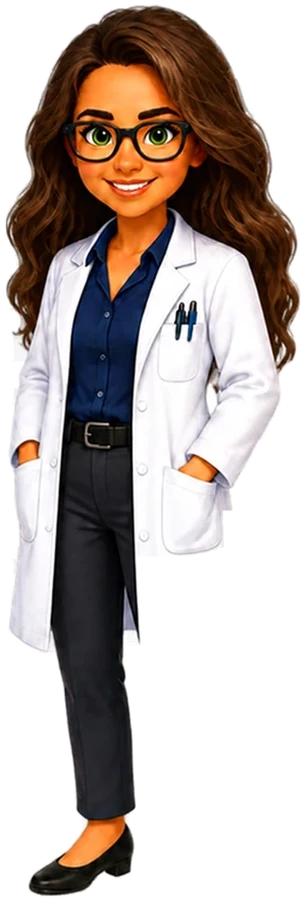
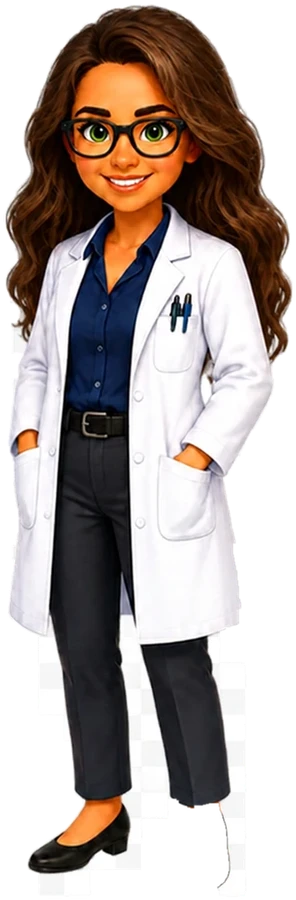
Maestra scienze: camice intero, file nuovo
Claude-Session: https://claude.ai/code/session_01YRvwTWgNLV5MGN3ARVub2Q

diff --git a/cuccioli.js b/cuccioli.js
@@ -395,7 +395,7 @@ C.who=function(){
 var TK="cuccioli-maestra",RK="cuccioli-maestra-ricordata";
 /* ===== più maestre: ognuna con il suo PIN personale, le sue materie e le sue app ===== */
 C.PAGE=(location.pathname.split("/").pop()||"").replace(/\.html$/,"");
-C.T1={id:"t1",n:"Valentina",img:"img/maestra-valentina.webp?v=3d2",subj:["mat","geo","sci","mot","art","mus","tec","civ"]};
+C.T1={id:"t1",n:"Valentina",img:"img/maestra-valentina.webp?v=3d3",subj:["mat","geo","sci","mot","art","mus","tec","civ"]};
 C.teachers=function(){
   var t=C.settings.teachers;
   if(t&&t.length)return t;
@@ -422,7 +422,7 @@ C.tFigure=function(t,mode,opts){
   opts=opts||{};
   if(!t||!t.img)return C.tAvatar(t,"big");
   /* ritratti già in costume: maga e materie (t.outfits = {maga:[img,rapporto], sci:[img,rapporto]…}) */
-  var OF=t.outfits||(t.id==="t1"?{maga:["img/maestra-valentina-maga.webp?v=3d2",2.457],sci:["img/maestra-valentina-sci.webp?v=3d2",2.959],geo:["img/maestra-valentina-geo.webp?v=3d2",2.747],mus:["img/maestra-valentina-mus.webp?v=3d2",3.03],mat:["img/maestra-valentina-mat.webp?v=3d2",3.058],mot:["img/maestra-valentina-mot.webp?v=3d2",2.959],art:["img/maestra-valentina-art.webp?v=3d2",2.415],tec:["img/maestra-valentina-tec.webp?v=3d2",2.439]}:{});
+  var OF=t.outfits||(t.id==="t1"?{maga:["img/maestra-valentina-maga.webp?v=3d2",2.457],sci:["img/maestra-valentina-sci3d.webp",3.04],geo:["img/maestra-valentina-geo.webp?v=3d2",2.747],mus:["img/maestra-valentina-mus.webp?v=3d2",3.03],mat:["img/maestra-valentina-mat.webp?v=3d2",3.058],mot:["img/maestra-valentina-mot.webp?v=3d2",2.959],art:["img/maestra-valentina-art.webp?v=3d2",2.415],tec:["img/maestra-valentina-tec.webp?v=3d2",2.439]}:{});
   if(mode&&OF[mode]){
     var fx0=opts.fx!==false?'<span class="cq-glow"></span><i class="cq-sp s1">✦</i><i class="cq-sp s2">✧</i><i class="cq-sp s3">✦</i><i class="cq-sp s4">·</i><i class="cq-sp s5">✦</i>':'';
     var sd0=mode==="maga"?null:C.subjOf(mode);
@@ -510,7 +510,7 @@ C.dock=function(){var d=document.getElementById("cq-dock");if(!d){d=document.cre
 C.guide=function(){
   var g=C.GAMES.filter(function(x){return x.k===C.PAGE})[0];if(!g||document.getElementById("cq-gbtn"))return;
   var t=C.tById(g.by||"t1");if(!t)return;
-  var OF=t.outfits||(t.id==="t1"?{sci:["img/maestra-valentina-sci.webp?v=3d2"],geo:["img/maestra-valentina-geo.webp?v=3d2"],mat:["img/maestra-valentina-mat.webp?v=3d2"],mus:["img/maestra-valentina-mus.webp?v=3d2"],mot:["img/maestra-valentina-mot.webp?v=3d2"],art:["img/maestra-valentina-art.webp?v=3d2"],tec:["img/maestra-valentina-tec.webp?v=3d2"]}:{});
+  var OF=t.outfits||(t.id==="t1"?{sci:["img/maestra-valentina-sci3d.webp"],geo:["img/maestra-valentina-geo.webp?v=3d2"],mat:["img/maestra-valentina-mat.webp?v=3d2"],mus:["img/maestra-valentina-mus.webp?v=3d2"],mot:["img/maestra-valentina-mot.webp?v=3d2"],art:["img/maestra-valentina-art.webp?v=3d2"],tec:["img/maestra-valentina-tec.webp?v=3d2"]}:{});
   var face=OF[g.s]?Object.assign({},t,{img:OF[g.s][0]}):t;
   var btn=document.createElement("button");btn.type="button";btn.id="cq-gbtn";btn.className="cq-gbtn";btn.setAttribute("aria-label","La "+C.tName(t)+" ti legge le istruzioni");btn.setAttribute("aria-expanded","false");
   btn.innerHTML=C.tAvatar(face)+'<span class="cq-gbadge" aria-hidden="true">🔊</span>';
